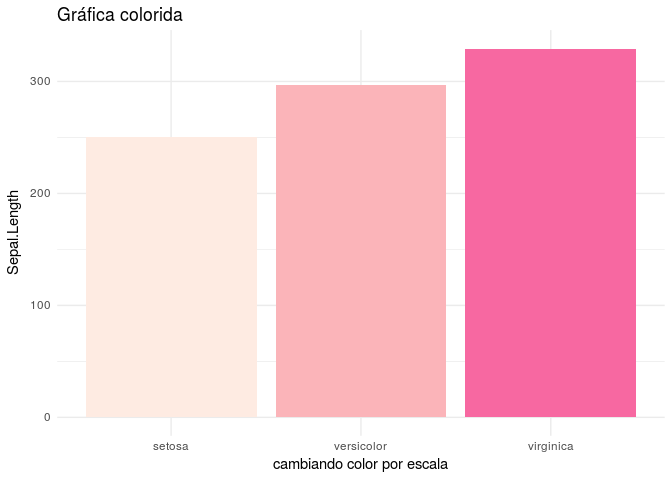
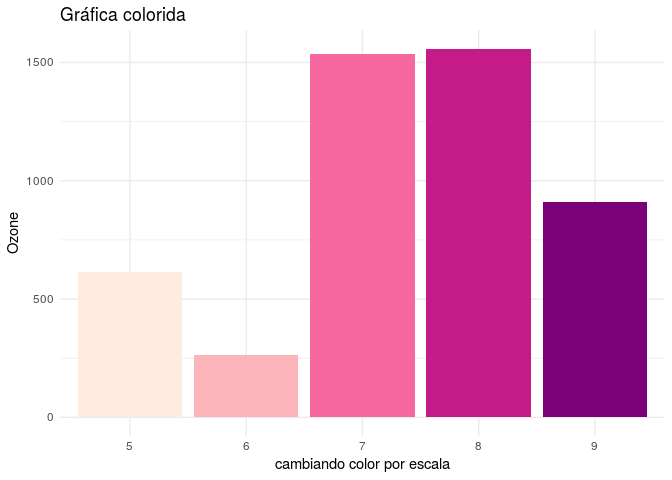
se agrega ejemplo de colores en geom_bar

diff --git a/Scalas_Bars.md b/Scalas_Bars.md
@@ -21,12 +21,11 @@
 
     library(RColorBrewer)
     cols <- brewer.pal(length(levels(factor(airquality$Month))), "RdPu") # numero de niveles en el factor
-    names(cols) <- levels(iris$Species)
-    ggplot(data = iris, aes(x = Species, y = Sepal.Length, fill = Species)) + 
-        geom_bar(stat="identity") + 
+    names(cols) <- levels(airquality$Species)
+    ggplot(data = airquality, aes(x = factor(Month), y = Ozone, fill = factor(Month))) +    geom_bar(stat="identity") + 
         scale_fill_manual("legend", values = cols)  +
         xlab('cambiando color por escala') + theme_minimal() +  ggtitle('Gráfica colorida')+guides(fill=FALSE)
 
-![](Scalas_Bars_files/figure-markdown_strict/unnamed-chunk-3-1.png)
+    ## Warning: Removed 37 rows containing missing values (position_stack).
 
-    ##########
+![](Scalas_Bars_files/figure-markdown_strict/unnamed-chunk-3-1.png)
